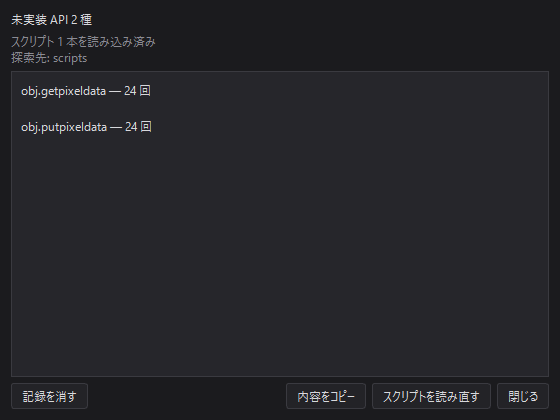
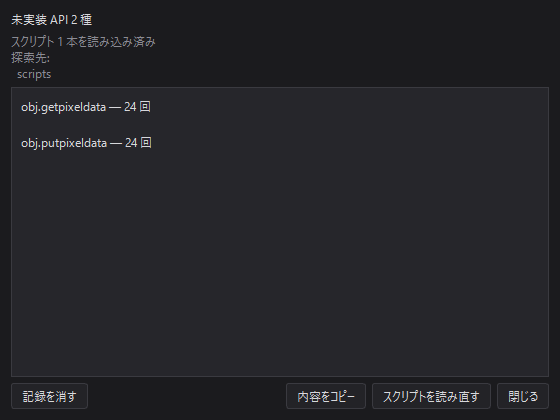
探索先を 1 行に 1 つ並べ、読点を場所の終わりと認めない（#113 の Qodo の指摘）
- 読点・句点・全角のカンマとピリオドを場所の終わりから外す 名前の途中に来うるので、
  認めると C:\Users\山田 のとき別の人の C:\Users\山田、太郎 の頭だけを伏せ、残りから名前が読める
  閉じ括弧と全角の空白は残す フォルダの名前がそれで続くことはまず無い
- 読点が場所の直後に来るのはこちらが探索先を読点でつないでいたため 貼る文もダイアログも 1 行に 1 つにする
- 互換性レポートの写真を撮り直す（探索先の並びの形が変わったため）

Changed region(s): [[0.0304, 0.1548, 0.2732, 0.3714], [0.0911, 0.1238, 0.1518, 0.1548]]

diff --git a/tests/ui/test_help_menu.py b/tests/ui/test_help_menu.py
@@ -17,7 +17,8 @@ from PySide6.QtGui import QDesktopServices
 from PySide6.QtWidgets import QApplication
 
 from sashimono import __version__
-from sashimono.compat.aviutl.catalog import ScriptCatalog, script_catalog, set_script_catalog
+from sashimono.compat.aviutl import catalog as catalog_module
+from sashimono.compat.aviutl.catalog import ScriptCatalog
 from sashimono.compat.aviutl.report import CompatibilityReport
 from sashimono.core import userdirs
 from sashimono.links import MANUAL_URL, REPORT_URL
@@ -219,22 +220,30 @@ class TestCompatibilityCopy:
     def test_every_script_folder_in_the_list_is_hidden(
         self, monkeypatch: pytest.MonkeyPatch, tmp_path: Path
     ) -> None:
-        # 探索先は「、」でつないで書く 「、」を場所の終わりと認めないと、
-        # 最後以外の探索先が伏せられず、公開の Issue に名前が出る
+        # 探索先を読点でつなぐと、場所の直後に読点が来て、最後以外の探索先が伏せられない
+        # （読点は名前の途中に来うるので、伏せる側は場所の終わりと認めない）
         _clear_folder_variables(monkeypatch)
         roots = [r"D:\kagemori\aviutl\Script", r"E:\kagemori2\scripts", r"F:\山田\素材"]
         text = report_text(CompatibilityReport(), 0, user_folders(tmp_path), roots=roots)
-        assert "探索先: <探索先1>、<探索先2>、<探索先3>" in text
+        assert "探索先:\n  <探索先1>\n  <探索先2>\n  <探索先3>" in text
         for name in ("kagemori", "山田"):
             assert name not in text.casefold()
 
-    @pytest.mark.parametrize("after", ["、", "。", "，", "．", "）", "」", "』", "】", "〕", "　"])
-    def test_a_japanese_delimiter_ends_the_folder(self, after: str) -> None:
-        # 日本語の文では、場所の直後に句読点や閉じ括弧が来る そこで伏せ損ねると名前が残る
+    @pytest.mark.parametrize("after", ["）", "」", "』", "】", "〕", "　"])
+    def test_a_closing_bracket_ends_the_folder(self, after: str) -> None:
+        # 文の中で場所を括弧で囲むと、場所の直後に閉じ括弧が来る そこで伏せ損ねると名前が残る
         text = mask_user_folders(
             rf"（C:\Users\kagemori{after}ほか", [(r"C:\Users\kagemori", "%USERPROFILE%")]
         )
         assert text == f"（%USERPROFILE%{after}ほか"
+
+    @pytest.mark.parametrize("comma", ["、", "，", "．"])
+    def test_a_name_that_goes_on_after_a_comma_is_left_whole(self, comma: str) -> None:
+        # 読点などは名前の途中に来うる 終わりと認めると、別の人の場所の頭だけを伏せ、
+        # 残りの「太郎」から名前が読める 本人の場所ではないので丸ごと残す
+        written = rf"C:\Users\山田{comma}太郎\a"
+        text = mask_user_folders(written, [(r"C:\Users\山田", "%USERPROFILE%")])
+        assert text == written
 
     def test_a_middle_dot_is_part_of_the_name(self) -> None:
         # カタカナの名前では「・」の後ろに名前の続きが来る 頭だけを伏せると残りが読める
@@ -282,7 +291,7 @@ class TestCompatibilityCopy:
         text = report_text(report, 1, user_folders(tmp_path), roots=[outside])
         assert "kagemori" not in text.casefold()
         assert r"ゆらゆら.anm2: 開けない: [Errno 13] <探索先1>\ゆらゆら.anm2" in text
-        assert "探索先: <探索先1>" in text
+        assert "探索先:\n  <探索先1>" in text
 
     def test_a_script_folder_under_the_settings_keeps_its_name(
         self, monkeypatch: pytest.MonkeyPatch, tmp_path: Path
@@ -293,23 +302,23 @@ class TestCompatibilityCopy:
         monkeypatch.setenv("APPDATA", r"C:\Users\kagemori\AppData\Roaming")
         inside = r"C:\Users\kagemori\AppData\Roaming\Sashimono\scripts"
         text = report_text(CompatibilityReport(), 0, user_folders(tmp_path), roots=[inside])
-        assert r"探索先: %APPDATA%\Sashimono\scripts" in text
+        assert "探索先:\n  %APPDATA%\\Sashimono\\scripts" in text
         assert "<探索先" not in text
 
     def test_the_dialog_tells_which_marker_is_which(self, monkeypatch: pytest.MonkeyPatch) -> None:
         # 貼った文の印が何を指すかは、聞かれたときに本人が画面で答えられるようにする
         _clear_folder_variables(monkeypatch)
         outside = Path(r"D:\kagemori\aviutl\Script")
-        before = script_catalog()
-        set_script_catalog(ScriptCatalog(roots=(outside,)))
+        # 前の一覧は ``_catalog`` から直に取る ``script_catalog()`` で取ると、一覧が
+        # まだ無いときに既定の探索先（本物の AviUtl2 の Script など）を走査して登録する
+        monkeypatch.setattr(catalog_module, "_catalog", ScriptCatalog(roots=(outside,)))
         dialog = CompatibilityDialog(CompatibilityReport())
         try:
-            assert f"<探索先1> {outside}" in dialog._scripts.text()
+            assert f"  <探索先1> {outside}" in dialog._scripts.text().splitlines()
             dialog.copy_to_clipboard()
             assert "kagemori" not in QApplication.clipboard().text().casefold()
         finally:
             dialog.close()
-            set_script_catalog(before)
 
     def test_the_button_puts_the_text_on_the_clipboard(self, qt_application: QApplication) -> None:
         # 壊れると、一覧を 1 行ずつしか選べず、報告に貼れない

diff --git a/src/sashimono/ui/compat_dialog.py b/src/sashimono/ui/compat_dialog.py
@@ -35,6 +35,7 @@ __all__ = [
     "CompatibilityDialog",
     "mask_user_folders",
     "report_text",
+    "root_lines",
     "root_markers",
     "short_path",
     "user_folders",
@@ -72,13 +73,13 @@ _SEPARATORS = r"[\\/]+"
 #: 伏せた場所のすぐ後に来てよい文字（区切り・空白・引用符・括弧など）
 #: これ以外が続くときは名前の途中なので伏せない ``C:\Users\kage`` を伏せるときに
 #: ``C:\Users\kagemori`` の頭だけを伏せると、残りから名前が読める
-#: 日本語の文で場所の直後に来る区切り（読点・句点・全角のカンマとピリオド・閉じ括弧）も
-#: 終わりとみなす 探索先を ``、`` でつないで書くので、認めないと最後以外の探索先が
-#: どれも伏せられない ``・`` は足さない カタカナの名前（``ジョン・スミス``）では名前の続きに来る
-#: 全角の文字は番号で書く 句点を字のまま書くと、文章の句点の検査が文と取り違える
-_JAPANESE_ENDS = "".join(
-    chr(code) for code in (0x3001, 0x3002, 0xFF0C, 0xFF0E, 0xFF09, 0x300D, 0x300F, 0x3011, 0x3015)
-)
+#: 全角の閉じ括弧（``）`` ``」`` ``』`` ``】`` ``〕``）も終わりとみなす 文の中で場所を括弧で
+#: 囲む書き方はありうるが、フォルダの名前がそれで続くことはまず無い
+#: 読点・句点・全角のカンマとピリオドは認めない 名前の途中に来うる（``山田、太郎``）ので、
+#: 認めると別の人の場所の頭だけを伏せ、残りから名前が読める こちらが組む文では、
+#: 場所の直後にそれらを置かない（探索先は 1 行に 1 つ）ことで釣り合いを取る
+#: ``・`` も同じ理由で足さない カタカナの名前（``ジョン・スミス``）では名前の続きに来る
+_JAPANESE_ENDS = "）」』】〕"
 _FOLDER_END = r"(?![^\\/\s\"'<>|:;,)\]}" + _JAPANESE_ENDS + r"])"
 
 
@@ -180,6 +181,17 @@ def root_markers(
     return markers
 
 
+def root_lines(labels: Sequence[str]) -> list[str]:
+    """探索先の並びの行 1 行に 1 つ
+
+    読点でつなぐと、場所の直後に読点が来る 伏せる側は読点を場所の終わりと認めない
+    （名前の途中に来うる）ので、つないだ探索先は最後の 1 つしか伏せられない
+    """
+    if not labels:
+        return ["探索先: （設定なし）"]
+    return ["探索先:", *(f"  {label}" for label in labels)]
+
+
 def report_text(
     report: CompatibilityReport,
     scripts: int,
@@ -200,7 +212,7 @@ def report_text(
         f"Sashimono Edit {__version__} 互換性レポート",
         report.summary(),
         f"読み込み済みのスクリプト {scripts} 本",
-        f"探索先: {'、'.join(str(root) for root in roots) or '（設定なし）'}",
+        *root_lines([str(root) for root in roots]),
         *report.lines(),
     ]
     return mask_user_folders("\n".join(lines), hidden)
@@ -259,12 +271,12 @@ class CompatibilityDialog(QDialog):
         # 貼る文で印に置き換える探索先は、画面では印を添えて出す 報告を受けた側が
         # 「<探索先1> が何か」を聞いたときに、本人が画面で答えられるように
         markers = dict(root_markers(catalog.roots, user_folders()))
-        roots = "、".join(
+        labels = [
             f"{markers[str(root)]} {root}" if str(root) in markers else str(root)
             for root in catalog.roots
-        )
+        ]
         self._scripts.setText(
-            f"スクリプト {len(entries)} 本を読み込み済み\n探索先: {roots or '（設定なし）'}"
+            "\n".join([f"スクリプト {len(entries)} 本を読み込み済み", *root_lines(labels)])
         )
 
         self._list.clear()
